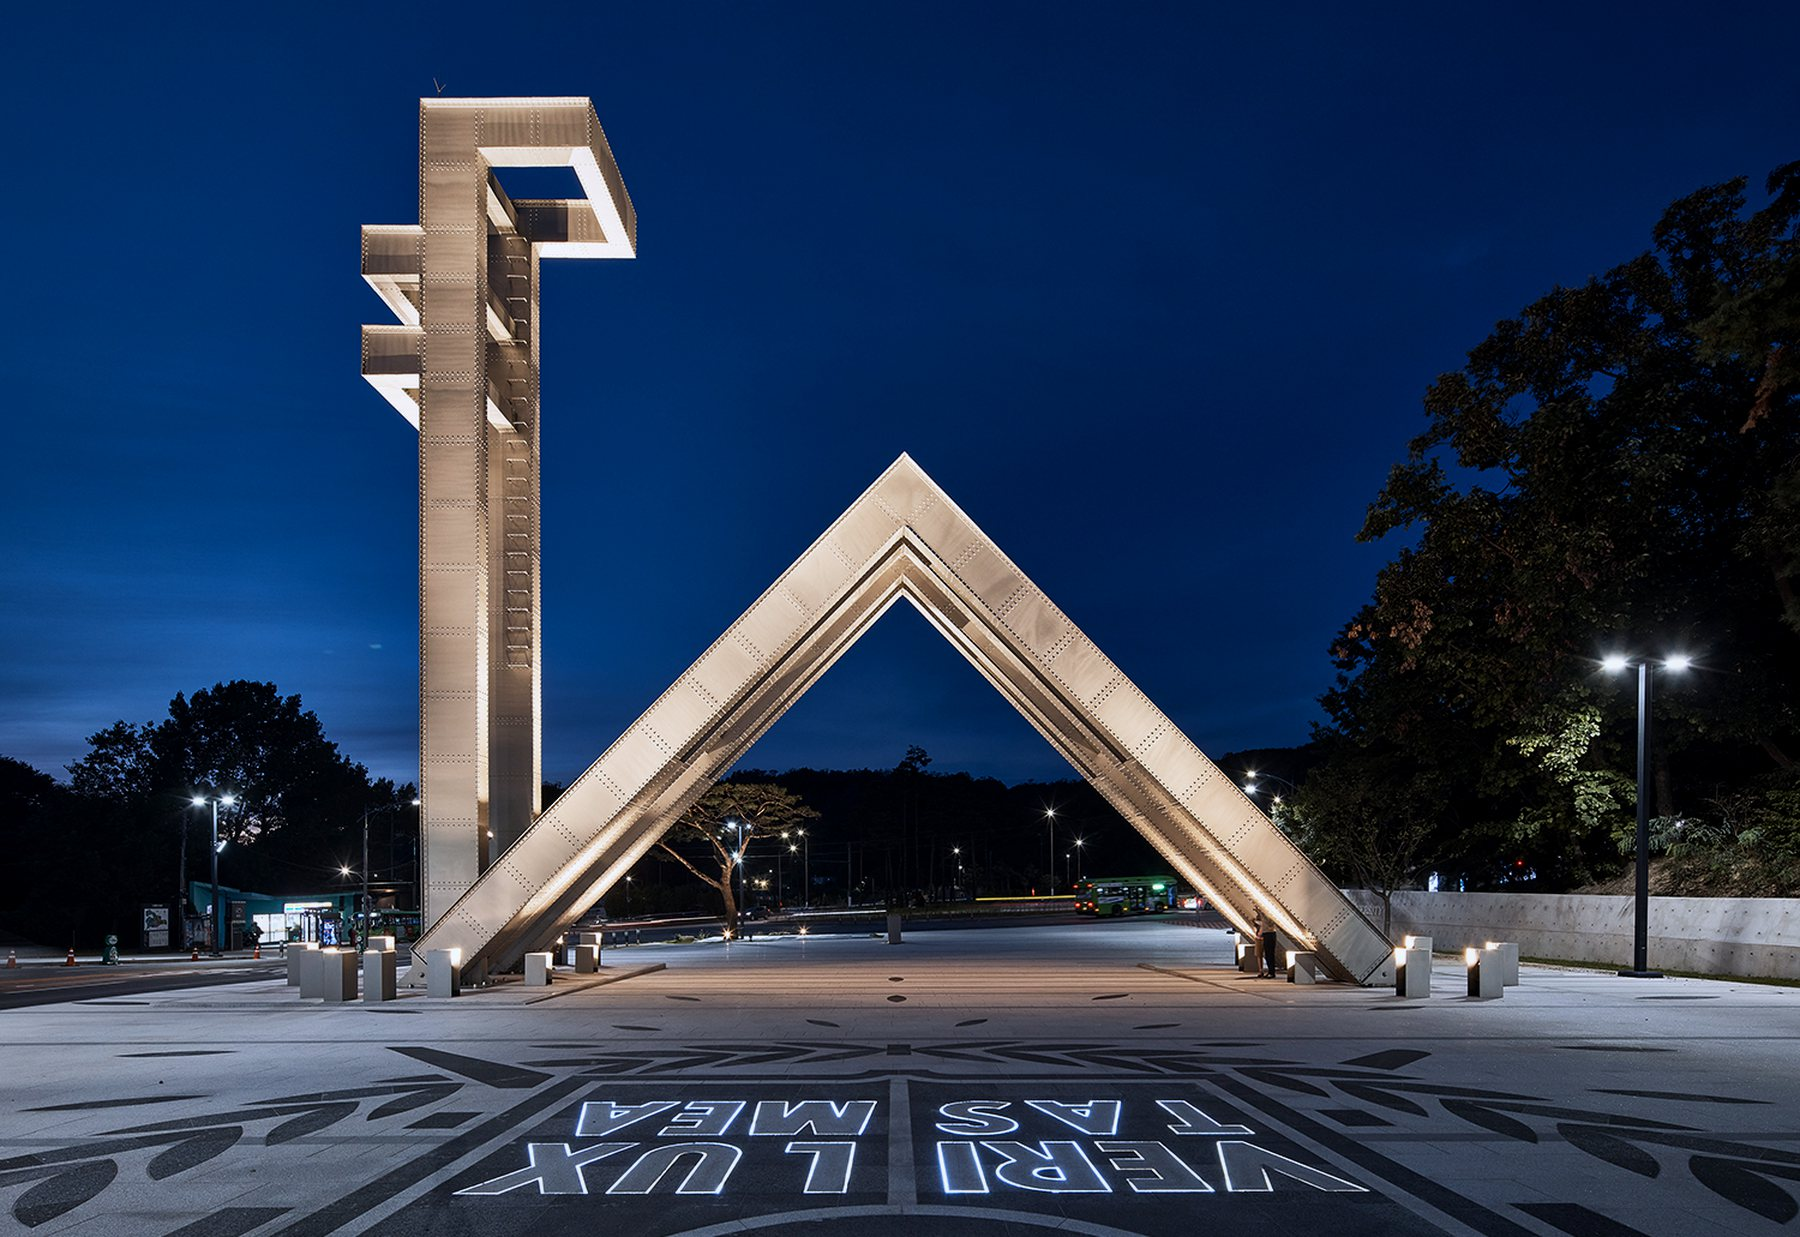
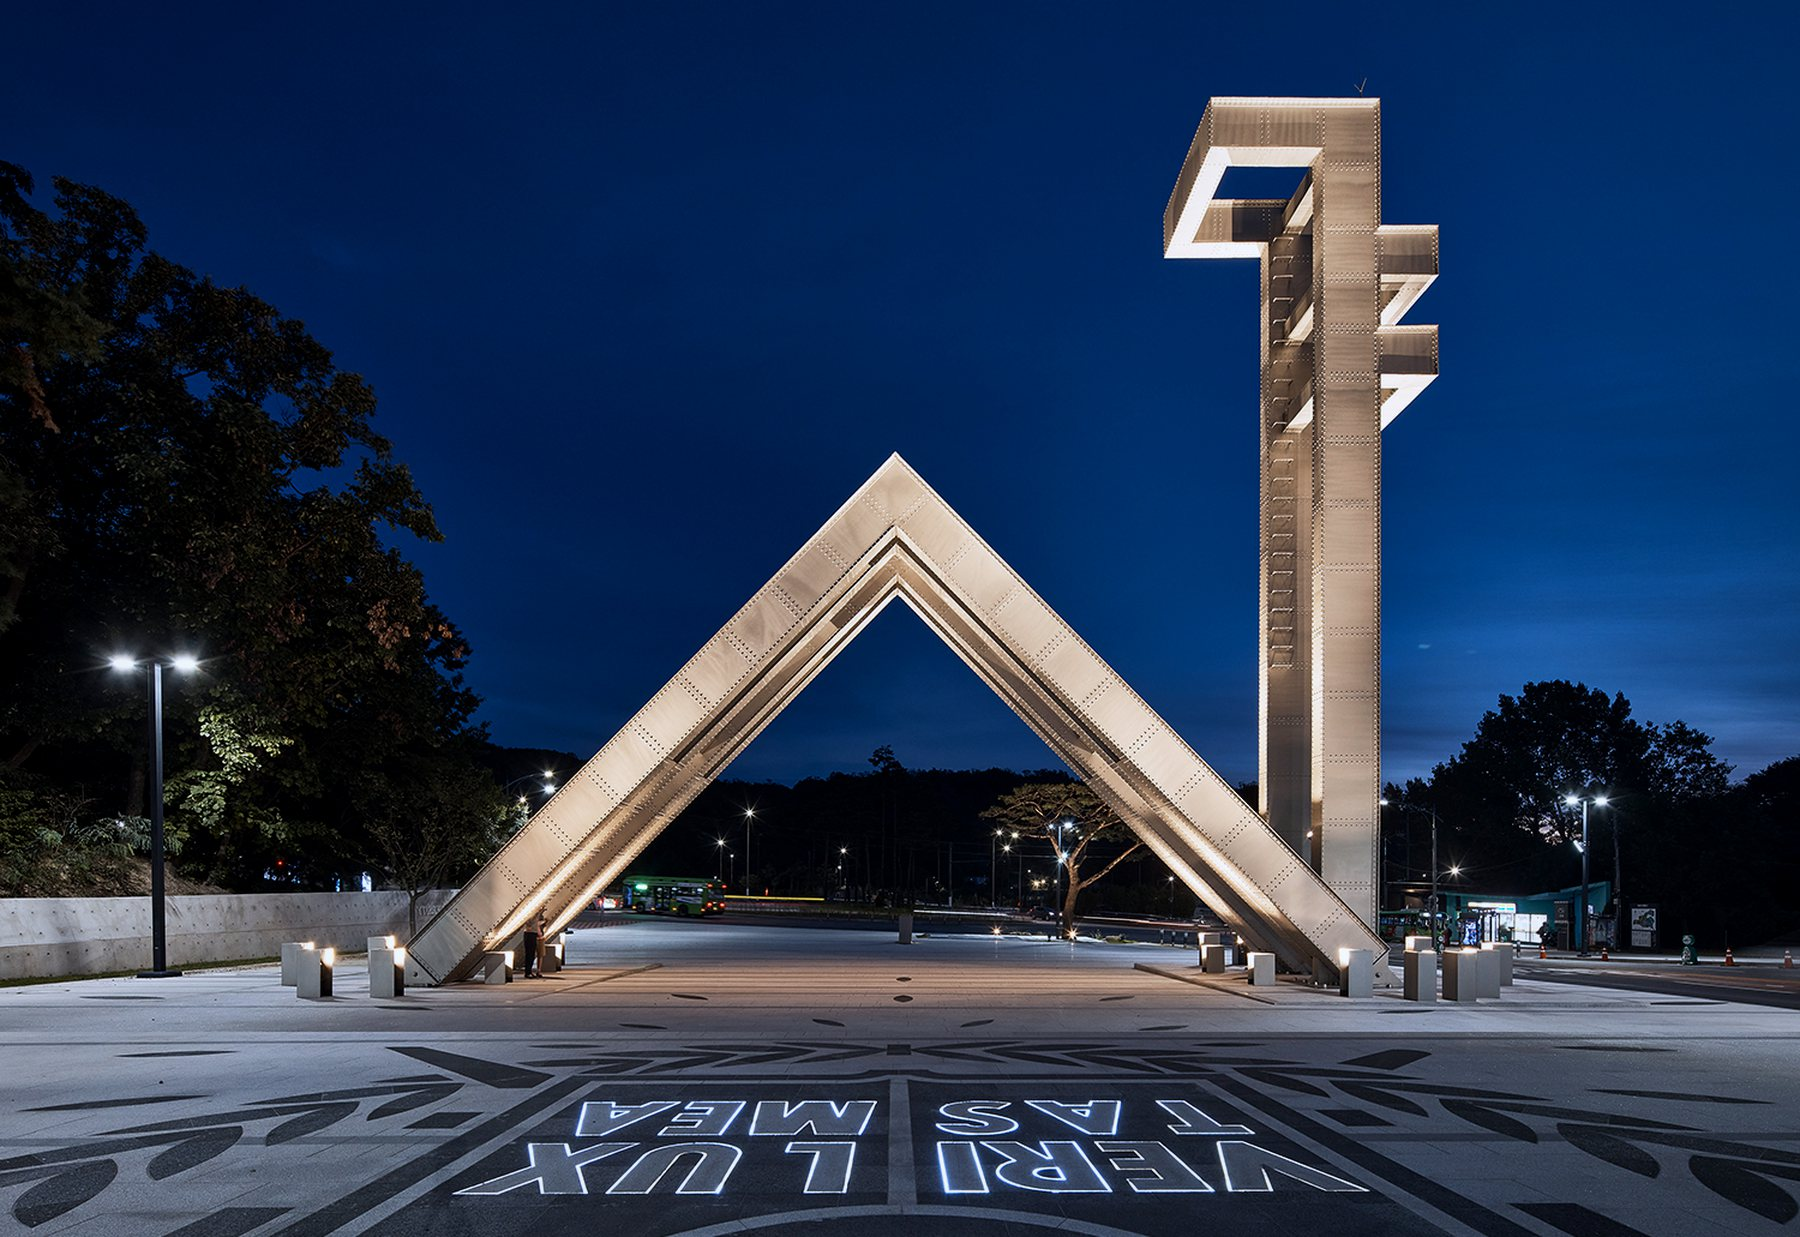
fix(home): mirror the gate so it reads as 샤
The photograph was taken from behind the gate, so the shape came out
backwards: the ㅑ tower on the left and the ㅅ arch on the right. Mirrored,
so it reads the way it is meant to.

Mirroring alone left the VERI LUX TAS MEA lettering on the plaza reversed,
which is worse than the upside-down it started as - that is just how it is
painted, to be read from the road. So the band below y=860 is pasted back
unmirrored. The plaza pattern is symmetric there and the join does not
show.

The mobile framing bias mirrors with the picture, 46% to 54%.

diff --git a/assets/styles.css b/assets/styles.css
@@ -2413,7 +2413,7 @@ body.intro-active {
   }
 
   .hero-campus-pan {
-    object-position: 46% 32%;
+    object-position: 54% 32%;
   }
 
   .hero-visual::after {
